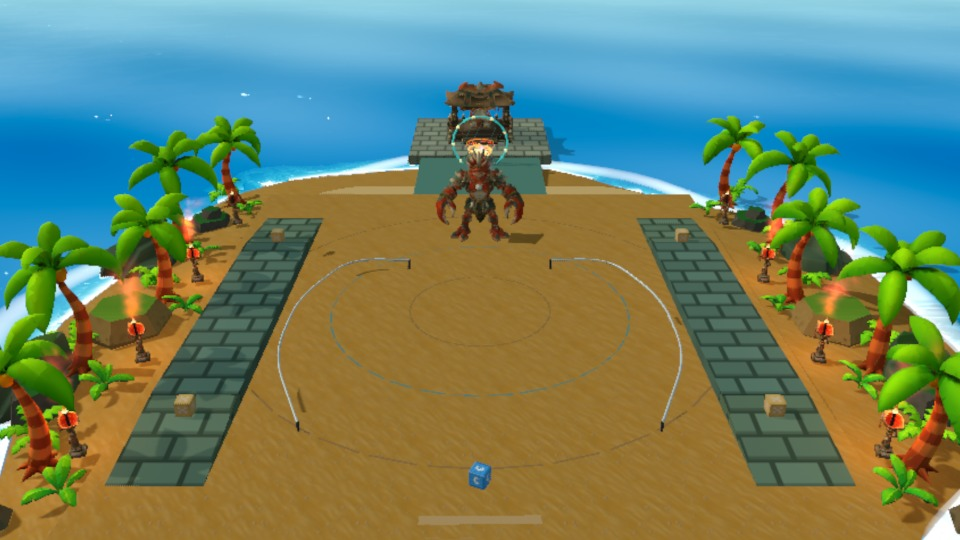
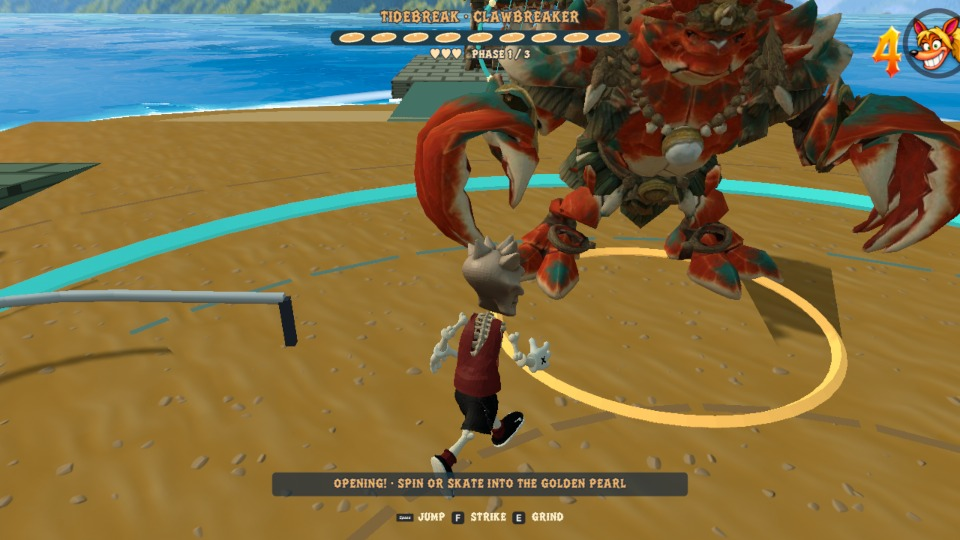
Restore close boss framing and complete victory without warp rewards

diff --git a/src/cameraViews.ts b/src/cameraViews.ts
@@ -10,11 +10,11 @@ export interface CameraView {
   cameraTarget?: readonly [number, number, number];
   cameraFov?: number;
   cameraAspect?: number;
-  /** Dolly from the authored establishing shot into a translation-only follow. */
+  /** Translation-only follow distance, capped at the close gameplay limit. */
   cameraFollowDistance?: number;
   /** Relative target height keeps tall crate goals visible at a close lens. */
   cameraFollowTargetHeight?: number;
-  /** Metres travelled from entry before the follow composition fully takes over. */
+  /** Legacy authoring metadata; gameplay no longer starts with a distant establishing shot. */
   cameraIntroDistance?: number;
 }
 
@@ -47,11 +47,8 @@ export class CameraViewFraming {
   private readonly shotMatrix=new THREE.Matrix4();
   private readonly shotOrientation=new THREE.Quaternion();
   private readonly worldUp=new THREE.Vector3(0,1,0);
-  private activeView:CameraView|null=null;
-  private readonly entry=new THREE.Vector3();
   private readonly followEye=new THREE.Vector3();
   private readonly followTarget=new THREE.Vector3();
-  private introProgress=0;
 
   restore(camera:THREE.PerspectiveCamera):void {
     if(!this.applied)return;
@@ -60,28 +57,20 @@ export class CameraViewFraming {
     this.applied=false;
   }
 
-  apply(camera:THREE.PerspectiveCamera,match:CameraViewMatch|null,subject?:THREE.Vector3,snap=false):void {
+  apply(camera:THREE.PerspectiveCamera,match:CameraViewMatch|null,subject?:THREE.Vector3,_snap=false):void {
     if(!match)return;
     const {view,weight}=match;
-    if(this.activeView!==view||snap){
-      this.activeView=view;this.introProgress=0;
-      if(subject)this.entry.copy(subject);
-    }
     if(!view.cameraPosition&&!view.cameraTarget&&view.cameraFov===undefined)return;
     this.position.copy(camera.position);this.orientation.copy(camera.quaternion);this.up.copy(camera.up);this.fov=camera.fov;
     this.applied=true;
     if(view.cameraPosition&&view.cameraTarget){
       this.shotEye.fromArray(view.cameraPosition);this.shotTarget.fromArray(view.cameraTarget);
-      if(view.cameraFollowDistance!==undefined&&subject){
+      const distance=Math.min(18,view.cameraFollowDistance??this.shotEye.distanceTo(this.shotTarget));
+      if(subject){
         this.followTarget.copy(subject);this.followTarget.y+=view.cameraFollowTargetHeight??1.3;
-        this.followEye.copy(this.shotEye).sub(this.shotTarget).setLength(view.cameraFollowDistance).add(this.followTarget);
-        const distance=view.cameraIntroDistance??0;
-        this.introProgress=Math.max(this.introProgress,distance>0?THREE.MathUtils.smoothstep(Math.hypot(subject.x-this.entry.x,subject.z-this.entry.z),0,distance):1);
-        // Equal eye/target interpolation preserves the exact authored direction.
-        // Progress latches, so retracing stairs cannot zoom back out.
-        this.shotEye.lerp(this.followEye,this.introProgress);
-        this.shotTarget.lerp(this.followTarget,this.introProgress);
-      }
+        this.followEye.copy(this.shotEye).sub(this.shotTarget).setLength(distance).add(this.followTarget);
+        this.shotEye.copy(this.followEye);this.shotTarget.copy(this.followTarget);
+      }else this.shotEye.sub(this.shotTarget).setLength(distance).add(this.shotTarget);
       this.shotMatrix.lookAt(this.shotEye,this.shotTarget,this.worldUp);
       this.shotOrientation.setFromRotationMatrix(this.shotMatrix);
       camera.position.lerp(this.shotEye,weight);
@@ -89,9 +78,8 @@ export class CameraViewFraming {
       camera.up.lerp(this.worldUp,weight).normalize();
     }
     if(view.cameraFov!==undefined){
-      const fit=Math.max(1,(view.cameraAspect??camera.aspect)/camera.aspect);
-      const fov=fit>1?Math.min(120,THREE.MathUtils.radToDeg(2*Math.atan(Math.tan(THREE.MathUtils.degToRad(view.cameraFov)*.5)*fit))):view.cameraFov;
-      camera.fov=THREE.MathUtils.lerp(camera.fov,fov,weight);camera.updateProjectionMatrix();
+      // Portrait fitting must not widen the gameplay lens into an overview.
+      camera.fov=THREE.MathUtils.lerp(camera.fov,Math.min(this.fov,view.cameraFov),weight);camera.updateProjectionMatrix();
     }
   }
 }

diff --git a/src/level.ts b/src/level.ts
@@ -777,7 +777,7 @@ export interface CustomComponent {
   cameraAspect?: number; // cameraView: keep the authored horizontal composition in narrower viewports
   cameraFollowTargetHeight?: number; // cameraView: follow look-target height above the subject, 0..8m
   cameraFollowDistance?: number; // cameraView: follow subject at this distance, preserving authored direction
-  cameraIntroDistance?: number; // cameraView: metres from entry to dolly from the wide shot into follow
+  cameraIntroDistance?: number; // legacy authoring value; gameplay starts in close follow
   radius?: number; // camnode: lane corner radius · stone: the boulder's radius
   materialStyle?: "unity-sand"; // mesh only: registered MatrixRex sand factory, never external assets
   emissive?: string; // bounded surface emission on EMISSIVE_COMPONENT_TYPES
@@ -3728,6 +3728,7 @@ export function isEditUnlocked(): boolean {
 }
 
 export class Level {
+  readonly isBossLevel: boolean;
   readonly allowsBonus: boolean;
   boss: CrabChiefEncounter | null = null;
   groundMeshes: THREE.Mesh[] = [];
@@ -4623,7 +4624,8 @@ export class Level {
       sfx.play('skateHalt', 0.4, removed ? 1.6 : 0.65);
     };
     this.name = entry.name;
-    this.allowsBonus = levelAllowsBonus(entry.id) && !entry.data?.encounter && !isCompetitionLevel(entry.id);
+    this.isBossLevel = !levelAllowsBonus(entry.id) || !!entry.data?.encounter || isCompetitionLevel(entry.id);
+    this.allowsBonus = !this.isBossLevel;
     this.relicTime = resolveRelicTime(entry.id, entry.data);
     this.medalTimes = resolveMedalTimes(entry.id, entry.data);
     // A user level carries its own component data and builds through the same
@@ -4668,7 +4670,7 @@ export class Level {
       this.theme.fogFar = SKY_BRIDGE_FOG_FAR;
     }
     if (isCampaignLevel(entry.id) && !isCompetitionLevel(entry.id)) {
-      if (!this.crystalPickup) this.placeCampaignCrystal();
+      if (!this.isBossLevel && !this.crystalPickup) this.placeCampaignCrystal();
       if (this.allowsBonus && !this.bonusPlatform) this.placeDefaultBonusPlatform();
     }
     // The entrance and the parent gem tally resolve the same authored room.
@@ -17396,6 +17398,7 @@ export class Level {
 
   // Main-route crystal: faceted specular shell, with pickup glints in update.
   private crystal(x: number, y: number, z: number): void {
+    if (this.isBossLevel) return;
     const g = Level.crystalMesh(1);
     // belt sits at the group origin; the long bottom point reaches ~1.5 below,
     // so float the group up to keep the tip hovering just above the ground
@@ -19505,6 +19508,13 @@ export class Level {
       new THREE.Vector3(cx, deckY + 15, z),
       new THREE.Vector3(hx * 2, 30, hz * 2),
     );
+    if (this.isBossLevel) {
+      // Encounter bosses finish on defeat. Legacy boss-labelled courses keep
+      // an invisible end boundary, with no warp artwork or pad collision.
+      if (!this.builtFromData?.encounter) this.finishGlow.setFromCenterAndSize(
+        new THREE.Vector3(cx,deckY+1.5,z),new THREE.Vector3(hx*2,3,hz*2));
+      return;
+    }
     // every piece hangs off one group in gate-local space, so yaw is one turn
     const gate = new THREE.Group();
     gate.position.set(cx, deckY, z);

diff --git a/src/campaign.ts b/src/campaign.ts
@@ -711,7 +711,7 @@ function cloneSlots(
   return slots.map((save) => (save ? cloneSave(save) : null));
 }
 
-function normalizeLevelProgress(value: unknown): CampaignLevelProgress {
+function normalizeLevelProgress(value: unknown, levelId: string): CampaignLevelProgress {
   const raw = value && typeof value === "object"
     ? value as Partial<CampaignLevelProgress>
     : {};
@@ -719,7 +719,7 @@ function normalizeLevelProgress(value: unknown): CampaignLevelProgress {
   const timeMedal = earnedTimeMedal(raw);
   return {
     cleared: raw.cleared === true,
-    crystal: raw.crystal === true,
+    crystal: levelAllowsBonus(levelId) && raw.crystal === true,
     boxGem: raw.boxGem === true,
     comboGem: raw.comboGem === true,
     timeRelic: timeMedal !== null,
@@ -743,7 +743,7 @@ function normalizeSave(value: unknown, slot: number): CampaignSaveV1 | null {
   const levels = emptyLevels();
   const incoming = raw.levels && typeof raw.levels === "object" ? raw.levels : {};
   for (const level of CAMPAIGN_LEVELS)
-    levels[level.progressKey] = normalizeLevelProgress(incoming[level.progressKey]);
+    levels[level.progressKey] = normalizeLevelProgress(incoming[level.progressKey],level.levelId);
   const rawLives =
     typeof raw.lives === "number" && Number.isFinite(raw.lives)
       ? Math.floor(raw.lives)
@@ -1083,7 +1083,7 @@ export class CampaignStore {
     const finishedChanged = this.updateLastFinishedLevel(levelId);
     const before = { ...progress };
     progress.cleared = true;
-    progress.crystal = progress.crystal || rewards.crystal;
+    progress.crystal = levelAllowsBonus(levelId) && (progress.crystal || rewards.crystal);
     progress.boxGem = progress.boxGem || rewards.boxGem;
     progress.comboGem = progress.comboGem || rewards.comboGem;
     if (
@@ -1166,7 +1166,8 @@ export class CampaignStore {
     let earned = 0, cups = 0;
     const maxCups = CAMPAIGN_LEVELS.filter(level => level.competition).length;
     const ordinaryLevels = CAMPAIGN_LEVELS.length - maxCups;
-    const maxMilestones = ordinaryLevels * 5 + maxCups * 2;
+    const crystalLevels = CAMPAIGN_LEVELS.filter(level => levelAllowsBonus(level.levelId)).length;
+    const maxMilestones = ordinaryLevels * 4 + crystalLevels + maxCups * 2;
     if (save) {
       for (const level of CAMPAIGN_LEVELS) {
         const progress = save.levels[level.progressKey] ?? emptyLevelProgress();
@@ -1175,7 +1176,7 @@ export class CampaignStore {
           if (progress.cup) { cups++; earned++; }
           continue;
         }
-        if (progress.crystal) { crystals++; earned++; }
+        if (levelAllowsBonus(level.levelId) && progress.crystal) { crystals++; earned++; }
         if (progress.boxGem) { gems++; earned++; }
         if (progress.comboGem) { gems++; earned++; }
         if (earnedTimeMedal(progress)) { relics++; earned++; }
@@ -1189,7 +1190,7 @@ export class CampaignStore {
       relics,
       maxLevels: CAMPAIGN_LEVELS.length,
       maxGems: ordinaryLevels * 2,
-      maxCrystals: ordinaryLevels, maxRelics: ordinaryLevels, cups, maxCups,
+      maxCrystals: crystalLevels, maxRelics: ordinaryLevels, cups, maxCups,
     };
   }
 

diff --git a/src/main.ts b/src/main.ts
@@ -2376,7 +2376,11 @@ function competitionOverview():boolean {
   return !!competition&&!competition.simulating&&competition.phase!=="countdown"&&!editor.active;
 }
 function frameCompetitionOverview():void {
-  const course=competitionCourse(current.id);camera.up.set(0,1,0);camera.position.set(...course.overviewEye);camera.lookAt(...course.overviewTarget);
+  const forward=camF.clone();forward.y=0;forward.normalize();
+  camera.up.set(0,1,0);
+  camera.position.copy(player.pos).addScaledVector(forward,-TUNING.camDist);camera.position.y+=TUNING.camHeight;
+  const aim=new THREE.Vector3();setCameraRigAim(aim,camera.position,forward,TUNING.camPitch);camera.lookAt(aim);
+  camera.fov=TUNING.camFov;camera.updateProjectionMatrix();
 }
 function preparingCompetitionPresentation():boolean {
   return !!competition&&!gameFlow.currentScreen&&
@@ -2730,7 +2734,7 @@ function showCampaignResults(): void {
   if (definition?.competition) return;
   if (definition)
     campaign.commitClear(current.id, {
-      crystal: player.hasCrystal,
+      crystal: !level.isBossLevel && player.hasCrystal,
       boxGem: player.gemEarned,
       comboGem: player.comboGemEarned,
     });
@@ -2748,7 +2752,7 @@ function showCampaignResults(): void {
     levelName: definition?.name ?? current.name,
     boxes,
     totalBoxes: level.totalCrates,
-    crystal: player.hasCrystal && !runStartRewards.crystal,
+    crystal: !level.isBossLevel && player.hasCrystal && !runStartRewards.crystal,
     boxGem: player.gemEarned && !runStartRewards.boxGem,
     comboGem: player.comboGemEarned && !runStartRewards.comboGem,
     firstClear,
@@ -4620,7 +4624,7 @@ function currentHudState(): HudState {
     // L2 shows this run's carried rewards, not the banked map collection.
     // Keep the start-of-run snapshot: committing results must not erase the
     // pickup from this run's presentation before its exit/retry boundary.
-    hasCrystal: player.hasCrystal && !runStartRewards.crystal,
+    hasCrystal: !level.isBossLevel && player.hasCrystal && !runStartRewards.crystal,
     hasGem: player.gemEarned && !runStartRewards.boxGem,
     hasComboGem: player.comboGemEarned && !runStartRewards.comboGem,
     inventoryHeld: input.inventoryHeld,

diff --git a/src/player.ts b/src/player.ts
@@ -4862,6 +4862,7 @@ export class Player {
   }
 
   private stepBossEncounter(dt: number, level: Level): void {
+    if (level.isBossLevel) this.hasCrystal = false;
     if (!level.boss) return;
     const result = level.boss.step(dt, {
       position: this.pos, state: this.state, speed: Math.abs(this.state === 'grind' ? this.grindVel : this.speed),
@@ -10229,9 +10230,9 @@ export class Player {
     // midair hover after the run is already over. Clamp across the gate's
     // WIDE axis (post to post), whichever world axis that is after its yaw.
     const fb = level.finishBox;
-    if (fb.max.x - fb.min.x >= fb.max.z - fb.min.z) {
+    if (!level.boss && fb.max.x - fb.min.x >= fb.max.z - fb.min.z) {
       this.pos.x = THREE.MathUtils.clamp(this.pos.x, fb.min.x + 1.5, fb.max.x - 1.5);
-    } else {
+    } else if (!level.boss) {
       this.pos.z = THREE.MathUtils.clamp(this.pos.z, fb.min.z + 1.5, fb.max.z - 1.5);
     }
     if (this.pos.z < level.endWallZ + 1) {
@@ -12515,14 +12516,14 @@ export class Player {
       const required=level.loopMeshes.filter(mesh=>mesh.userData.loopRequired).length;
       this.onCourseHint('LOOP STILL CLOSED', required>1?`Complete all ${required} loops to unlock the exit`:'Complete the Loop of Death to unlock the exit');
     } else if (!touchingFinish) this.loopGateHintShown = false;
-    if (!this.competitionMode && loopGoalsComplete && touchingFinish && (level.boss?.canFinish ?? true)) {
+    if (!this.competitionMode && loopGoalsComplete && (level.boss ? level.boss.canFinish : touchingFinish)) {
       this.bankCombo(); // whatever is pending counts as you arrive
       sfx.play('lifeGet', 1.0);
       this.state = 'finished';
       // Planted, not coasting — but only when you actually landed on it.
       // Killing the speed of someone who jumped THROUGH the glow would stop
       // them dead in mid-air.
-      if (onPad) this.speed = 0;
+      if (onPad || level.boss) this.speed = 0;
       // A COMBO RUN ends on the line too. bankCombo() above just closed the
       // chain, so without this the watchdog below sees "comboRun live, combo
       // just ended, gem still out there", calls failComboRun, and 1.2s after

diff --git a/src/levels/crab-chief.ts b/src/levels/crab-chief.ts
@@ -34,7 +34,7 @@ add({ t: 'woodpath', p: [0, 0, 23], pts: [[0, 0, 0, 0], [0, -17, 0, 0]], widths:
 add({ t: 'platform', p: [0, -.55, -43], s: [14, 1.1, 15], color: '#628d84', tex: 'solid',
   edgeGrinding: false, nm: 'Victory causeway' });
 add({t:'platform',p:[0,-.65,-59],s:[17,1.3,16],color:'#b1b5a2',tex:'stone',edgeGrinding:false,nm:'Throne-islet foundation beyond victory arch'});
-add({ t: 'gate', p: [0, 0, -49], nm: 'Reef crown exit · sealed until chief yields' });
+add({ t: 'gate', p: [0, 0, -49], invisible:true, nm: 'Logical boss boundary · victory completes at the chief' });
 add({ t: 'checkpoint', p: [0, 0, 5.5], nm: 'Arena arrival · phase progress survives a retry' });
 add({ t: 'pit', p: [0, -2.8, -15], s: [130, 1, 130], invisible: true, nm: 'Deep lagoon respawn' });
 // Broad ramps offer a skating line back from both elevated reef terraces.
@@ -82,11 +82,6 @@ for (const side of [-1,1]) for (let i=0;i<5;i++) {
 for(const side of [-1,1]) for(const z of [-4,-24])
   add({t:'decor',dkind:'mapcliff',p:[side*30,-1.6,z],s:[6.5,3.8,7],yaw:side*19,solid:false,
     color:'#b9c5b5',nm:'Existing map-kit shoreline rock'});
-// An authored arena shot keeps the whole chief, the attack floor and rider in
-// view. Translation-only following preserves that composition at the edges.
-add({ t: 'camnode', p: [0, 4, -16], s: [64, 30, 86], yaw: 0, radius: 3, cameraView: true,
-  cameraPosition: [0, 30, 39], cameraTarget: [0, 2, -14], cameraFov: 55, cameraAspect: 1.6,
-  cameraFollowDistance: 38, cameraIntroDistance: 15, nm: 'Chief establishing shot and arena follow' });
 
 export const CRAB_CHIEF_LEVEL: CustomLevelData = {
   v: 1, name: 'Tidebreak · Crab Chief', encounter: 'crab-chief',

diff --git a/src/levels/bonus-course-kit.ts b/src/levels/bonus-course-kit.ts
@@ -118,8 +118,8 @@ export function makeBonusCourse({ name, patterns, style }: {
     {t:'camnode',p:[-14,0,0],radius:0,grp:3},
     {t:'camnode',p:[a+21,0,0],radius:0,grp:3},
     {t:'camnode',p:[a/2,8,0],s:[a+54,48,18],cameraView:true,radius:1,
-      cameraPosition:[2,8.2,22],cameraTarget:[2,5.6,0],cameraFollowDistance:18,cameraFollowTargetHeight:4.5,cameraIntroDistance:0,
-      cameraFov:56,cameraAspect:1.3,grp:3,nm:'Side view shows each support, target and receiver together'},
+      cameraPosition:[2,8.2,22],cameraTarget:[2,5.6,0],cameraFollowDistance:18,cameraFollowTargetHeight:5.3,cameraIntroDistance:0,
+      cameraFov:56,cameraAspect:1.3,grp:3,nm:'Close side follow keeps the hero and current crate goal readable'},
   );
   return { data:{v:1,name,spawn:[-6,.12,0],killY:-12,hudMode:'bonus',sky:style.sky,
     cameraAirLift:.85,...(style.jungleAtmosphere?{jungleAtmosphere:true}:{}),components,groups},rooms,actions };

diff --git a/src/boss/crabChief.ts b/src/boss/crabChief.ts
@@ -113,7 +113,7 @@ export class CrabChiefEncounter {
   get exposed(): boolean { return this.state === 'recover' && this.stateTime > .7; }
   get charged(): boolean { return this.charge >= 1; }
   get hint(): string {
-    if (this.defeated) return this.canFinish ? 'THE REEF IS FREE · Skate through the shell arch' : 'THE CHIEF YIELDS';
+    if (this.defeated) return this.canFinish ? 'THE REEF IS FREE · VICTORY' : 'THE CHIEF YIELDS';
     if (this.state === 'waiting' || this.state === 'intro') return 'TIDEBREAK · Chief of the Reef';
     if (this.state === 'phase') return `PHASE ${this.phase} · ${CHIEF_PHASES[this.phase - 1].name}`;
     if (this.state === 'hurt') return 'PEARL CRACKED!';

diff --git a/src/gameFlowUI.ts b/src/gameFlowUI.ts
@@ -1344,6 +1344,7 @@ export class GameFlowUI {
     else {
       const entries = [['crystal', !!progress?.crystal, 'CRYSTAL'], ['gem', !!progress?.boxGem, 'ALL BOXES'], ['combo', !!progress?.comboGem, 'COMBO'], ['medal', !!medal, 'TIME TRIAL']] as const;
       for (const [kind, earned, label] of entries) {
+        if (kind === 'crystal' && definition.boss) continue;
         const item = element('div', 'game-level-prize');
         item.append(rewardSlot(kind, earned, medal), text('span', label, 'game-reward-caption')); rewards.append(item);
       }

diff --git a/docs/CRAB_CHIEF.md b/docs/CRAB_CHIEF.md
@@ -1,6 +1,6 @@
 # Tidebreak · Crab Chief
 
-A source-owned, three-phase reef boss encounter. Play `/?playtest&level=crab-chief`, or select **Tidebreak · Crab Chief** in the developer MENU. `src/levels/crab-chief.ts` owns the supported arena, entrance pier, terraces, ramps, two curved grind rails, checkpoint, lagoon pit, camera and victory gate. `encounter: 'crab-chief'` survives editor copy, export and validated import.
+A source-owned, three-phase reef boss encounter. Play `/?playtest&level=crab-chief`, or select **Tidebreak · Crab Chief** in the developer MENU. `src/levels/crab-chief.ts` owns the supported arena, entrance pier, terraces, ramps, two curved grind rails, checkpoint, lagoon pit, normal follow camera and defeat-driven completion. `encounter: 'crab-chief'` survives editor copy, export and validated import.
 
 ## Fight
 
@@ -14,7 +14,7 @@ The chief has nine pearl segments, three per phase. Every attack has a visible w
 
 Keyboard: arrows/WASD move, Space jumps (hold while moving to push on the board; release for a charged ollie), F strikes, E catches/balances a rail, Q uses the existing grab/brake controls. Charge the board ollie for the storm sweep: a tiny tap does not reach its height. The HUD uses the shared controller/keyboard prompt artwork and gives that cue while skating. No movement or camera tuning defaults are changed.
 
-Three encounter hearts are separate from campaign lives. Masks absorb a hit before a heart is spent, and the ordinary invulnerability/uber rules still apply. Reaching a new phase heals the encounter hearts and banks that phase for a soft retry. A soft retry restarts that phase's three pearl segments; a hard restart returns to phase one. Once the chief yields, a lagoon retry keeps the victory. The gate opens after the finite kneeling defeat animation; the ordinary production finish pad ends the run.
+Three encounter hearts are separate from campaign lives. Masks absorb a hit before a heart is spent, and the ordinary invulnerability/uber rules still apply. Reaching a new phase heals the encounter hearts and banks that phase for a soft retry. A soft retry restarts that phase's three pearl segments; a hard restart returns to phase one. Once the chief yields, a lagoon retry keeps the victory. After the finite kneeling defeat animation, victory completes the level automatically at the chief. Boss levels have no crystal pickup or warp pad.
 
 ## Art and motion
 
@@ -22,17 +22,19 @@ The chief uses the actual textured **Meshy-generated 7,667-triangle surface**, m
 
 The shared editable character elasticity profiles drive anticipation compression, limb extension, impact rebound and hurt recovery. Individual segments deform between solved endpoints; the actor root stays at `(1,1,1)`. The chief hops toward the locked slam position, lowers its pearl while recovering and finishes with a finite kneeling bow. Claw height is fitted to the actual long generated pincers to maintain floor clearance. Body collision and the pearl target follow the moving chief.
 
-The setting reuses the project's **existing coastal ocean, Island Hopper sand shelf, shoreline foam, Jungle Ruins palm/fern/broadleaf models and map-kit shoreline rocks**. Meshy supplies the new 2,843-triangle throne pavilion and 1,562-triangle conch brazier. The throne sits on the supported islet beyond the finish gate so it does not obstruct the combat or results camera. Boss levels have no bonus entrance or bonus-box tally.
+The setting reuses the project's **existing coastal ocean, Island Hopper sand shelf, shoreline foam, Jungle Ruins palm/fern/broadleaf models and map-kit shoreline rocks**. Meshy supplies the new 2,843-triangle throne pavilion and 1,562-triangle conch brazier. The throne sits on the supported islet behind the arena so it does not obstruct the combat or results camera. Boss levels have no bonus entrance, crystal, warp pad or bonus-box tally. The chief uses the ordinary close follow rig. Scripted camera views start close, remain within 18 metres, and keep their lens on portrait screens; Cup menus also use the normal close view.
 
 Three image-to-3D jobs consumed **45 existing Meshy credits**; the failed auto-rig consumed zero. No credits were purchased and no plan was upgraded. Delivered models total about 1.81 MB, with 1024² chief/pavilion and 512² brazier diffuse maps. Source references, task IDs, hashes and tooling live in `tools/crab-chief-assets/`; packed-asset reports live beside each GLB in `public/boss/`. Raw provider responses and authoring models remain ignored. Loading waits for all three real assets, and the shared cache releases their leases when the level is disposed.
 
 ## Verification
 
 - `node tools/test-crab-chief-skin.mjs`: 900 actual surface motion samples, 9,640 finite vertices per sample, normalized weights, 156 planted sole vertices, floor clearance and whole-rig finite defeat settle. `chief-skin-review.html` provides local front/side/back pose and motion inspection.
-- `node tools/test-crab-chief.mjs`: source/editor schema, supported spawn, carapace collision, both actual grind paths, checkpoint and lagoon respawn, gate lock, animation finiteness/planted feet, low-poly budget, phase/armor/charge rules, telegraph lock, hearts/masks, and soft/hard/victory retries.
-- `node tools/test-crab-chief-journey.mjs`: one complete production `Player` run using only input samples, with all nine earned hits, real grinds, skating strikes, phase transitions, defeat and finish pad. No pose, health, charge, tuning or phase edits.
-- `crab-chief-review.html?playtest&level=crab-chief&lite` and the same URL without `lite`: run the same input pilot in the real browser. The page records rendered rider/chief vertex framing and pre-CRT HUD diagnostics in `#chief-review-evidence`. This authoring page is excluded from the production build.
+- `node tools/test-crab-chief.mjs`: source/editor schema, supported spawn, carapace collision, both actual grind paths, checkpoint and lagoon respawn, no crystal/warp pad, defeat completion, animation finiteness/planted feet, low-poly budget, phase/armor/charge rules, telegraph lock, hearts/masks, and soft/hard/victory retries.
+- `node tools/test-crab-chief-journey.mjs`: one complete production `Player` run using only input samples, with all nine earned hits, real grinds, skating strikes, phase transitions, defeat and automatic completion. No pose, health, charge, tuning or phase edits.
+- `crab-chief-review.html?playtest&level=crab-chief&lite` and the same URL without `lite`: run the same input pilot in the real browser. The page records rendered rider framing and pre-CRT HUD diagnostics in `#chief-review-evidence`. This authoring page is excluded from the production build.
 - `node tools/test-chief-bonus-entrance.mjs`: boss source/runtime exclusion and an old editor copy with an authored pad remain bonus-free; arrival stays supported.
 - Required level validation/build scripts plus ordinary enemy, level-security and interface-cache regressions. The full suite is not part of this iteration.
 
 The source encounter lives in its own module, preserving the existing Blockworks geometry lab and the shared published editor pack.
+
+Current close-camera combat capture: `docs/crab-chief-close.png`. Earlier panoramic captures document retired iterations.

diff --git a/docs/LEVEL_ITERATIONS.md b/docs/LEVEL_ITERATIONS.md
@@ -434,3 +434,5 @@
 
 
 | 255 | Use regular campaign UI for the crate trilogy | ~3 min through playable UI correction; ~8 min including restoring the existing bonus-entrance hook and publication verification | Automatic from main | Bonus UI belongs only to bonus stages | Removed the bonus classification from the three main courses and synced pack; old cached copies retain edited geometry while recovering regular presentation. All-crate gems remain on the supported E/W approach independent of HUD mode; regular-mode pickups stay inside the side-scroll spawn lane. Restored the existing final-court bonus entrance hook; linked bonus rooms retain their bonus UI | All three normal HUDs and hidden BONUS labels verified; one full-render main course, seeded legacy copies and actual linked-bonus entry reviewed in Chrome with no console errors. Required level checks and production build pass. No route matrix, full suite, camera change or movement retune. |
+
+| 256 | Close gameplay cameras and boss victory completion | ~15 min to first validated direct boss clear; full-render review and publication followed | Automatic from main | No distant angle anywhere; boss levels have no crystals or warp pads | Removed the chief panoramic camera. Authored views begin in close follow, cap distance at 18 m and avoid portrait lens widening; preserved current puzzle/temple cameras and raised bonus framing focus for readable caps. Cup scorecards use normal close camera. Boss metadata and copied encounter data exclude crystal/warp creation, legacy crystal awards, inventory/results/menu slots and crystal totals. Defeat animation completes the chief in place; legacy boss-labelled courses retain an invisible logical finish boundary | Production-player nine-hit route finishes at z≈-24, away from the former pad, with no deaths or crystal. Boss/editor-copy exclusions, legacy-save/reward preservation, close-camera/portrait-follow checks, existing campaign/menu tests, level checks and build pass. Full browser combat and victory reviewed. No movement tuning, model regeneration or full suite. |

diff --git a/docs/BONUS_FLOW.md b/docs/BONUS_FLOW.md
@@ -50,3 +50,5 @@ Bonus entry, bonus return and the level-complete results reveal use asset-ready 
 HUD run/reset boundaries clear completed trick copy, preview tracking, cash-in/bail state and pending payouts. Completed cash-in copy also has a bounded expiry. L2 rewards use the actual crystal/clear-gem/green-gem factories in large transparent slots, fitted to their real radial envelope rather than hidden behind CSS symbols.
 
 Validation: all 24 source-spawn bonus pilots collect every authored box, collect the standalone gem and reach the actual gate with no deaths. Six shared-module positive runs and six wrong-order trials exercise the real dependencies. `test-themed-bonus-flow.mjs` executes production entry/return/reset functions for all parents and the fallback, including cup event preservation and failed/successful inventory rules. Real-player alcove checks cover all three puzzle courses. Full-render browser reviews cover every theme, with no retired backdrop nodes or texture requests; live cup/temple sessions check entry, completion, failure, return and compact scorecard controls. Existing bonus-polish and lifecycle regressions remain in place.
+
+Authored gameplay views start in close follow and keep the normal lens on portrait screens. Bonus target height 5.3 m keeps high crate caps readable at that lens; the camera follows the player to farther receivers.
